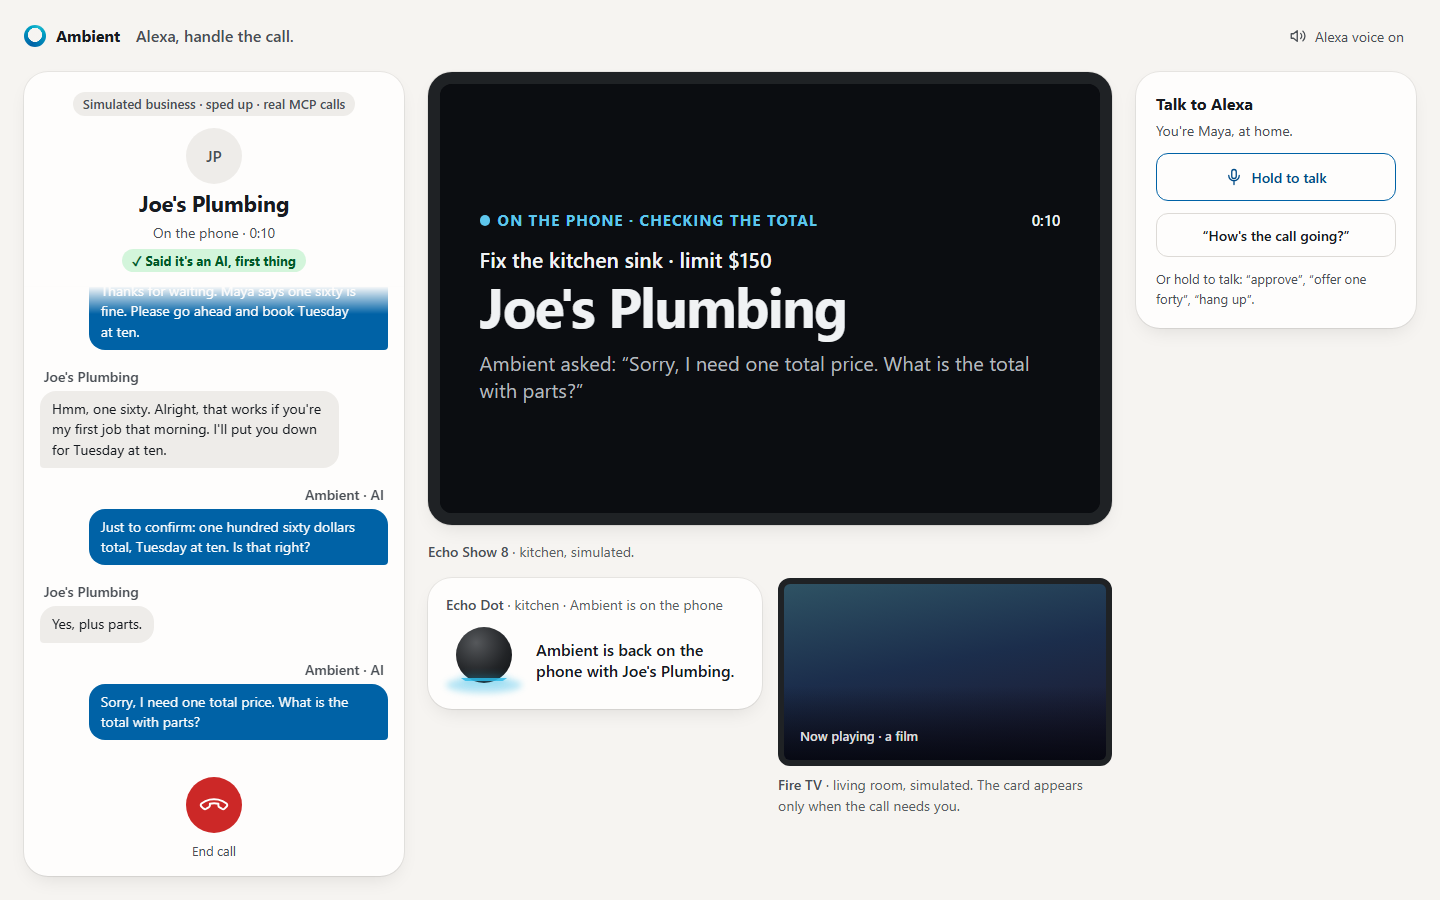
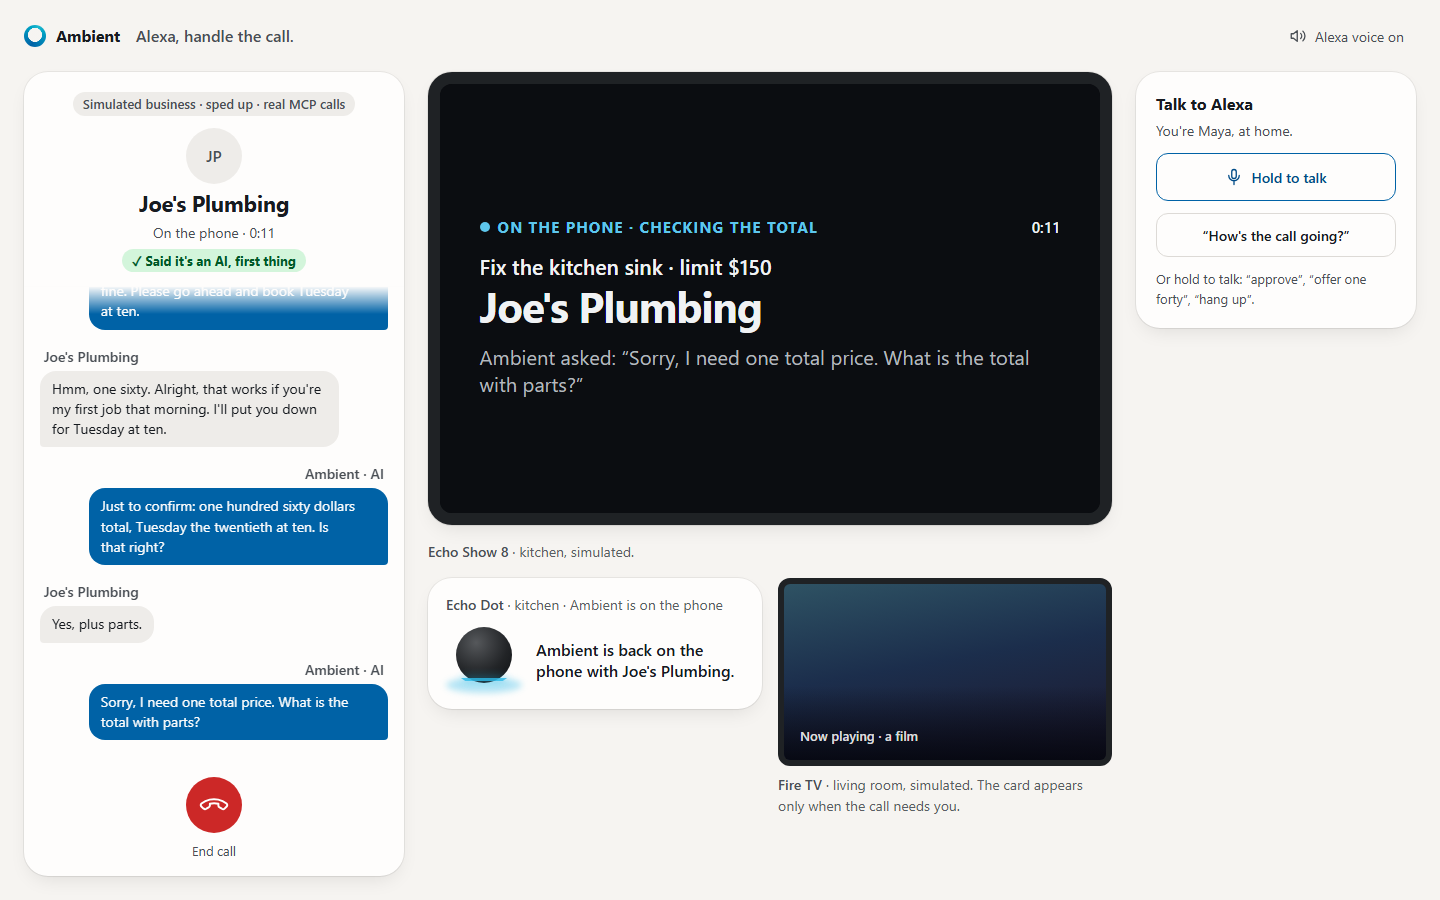
Give the demo a calendar date and say the date caveat aloud
Judges round 6 found the spoken report and the card disagreeing: Alexa
said "confirmed Tuesday at ten" while the card warned that no date was
given, so every demo ended on the caveat.

- Simulated Joe now offers "Tuesday the twentieth at ten", so the demo
  ends on a clean confirmation, and the card says "Confirmed by Joe's
  Plumbing".
- An ordinal day ("the twentieth", "the 20th") counts as a calendar
  date on the card, in the simulator and in the voice.
- When only a weekday was given, Alexa adds "They gave a day but no
  date, so check which one." Tests cover both paths.
- A long time uses a smaller headline so the card keeps its footer.

Changed region(s): [[0.3125, 0.2178, 0.7188, 0.4667], [0.0312, 0.3111, 0.2812, 0.6222], [0.7188, 0.2178, 0.75, 0.2489]]

diff --git a/src/calls/demo.ts b/src/calls/demo.ts
@@ -15,7 +15,7 @@ export const JOES_PLUMBING: BusinessPersona = {
     { when: /\bone (hundred )?fifty\b/i, reply: "One fifty is too low for me. I could do one sixty." },
     { when: /\bany room on the price\b/i, reply: "Best I can do is one eighty, honestly. Parts went up this year." },
     { when: /\b(go ahead|book it|that works)\b/i, reply: "Great, you're booked for Tuesday at ten. That's one eighty." },
-    { when: /\b(sink|leak|visit|plumb)/i, reply: "Sure, we can come Tuesday at ten." }
+    { when: /\b(sink|leak|visit|plumb)/i, reply: "Sure, we can come Tuesday the twentieth at ten." }
   ]
 };
 
@@ -23,6 +23,8 @@ export const JOES_PLUMBING_HANGS_UP: BusinessPersona = {
   ...JOES_PLUMBING,
   rules: [{ when: /\b(sink|leak|visit|plumb)/i, reply: "It's one eighty, take it or leave it. I've got another call.", hangUp: true }]
 };
+
+const WHEN = "Tuesday the twentieth at ten";
 
 export const DEMO_SCRIPT: ScriptedTurn[] = [
   {
@@ -44,13 +46,13 @@ export const DEMO_SCRIPT: ScriptedTurn[] = [
       const amount = amountsIn(readBack.split(" total")[0] ?? "").at(-1);
       return [{
         kind: "end_call",
-        outcome: { kind: "confirmed", summary: `Joe's Plumbing confirmed Tuesday at ten${amount !== undefined ? ` for ${dollarsInWords(amount)}` : ""}.`, ...(amount !== undefined ? { amountUsd: amount } : {}), when: "Tuesday at ten" }
+        outcome: { kind: "confirmed", summary: `Joe's Plumbing confirmed ${WHEN}${amount !== undefined ? ` for ${dollarsInWords(amount)}` : ""}.`, ...(amount !== undefined ? { amountUsd: amount } : {}), when: WHEN }
       }];
     }
   },
   {
-    when: /\bwe can come tuesday at ten\.$/i,
-    reply: () => [{ kind: "say", text: "Tuesday at ten works. What would it cost?", last: true }]
+    when: /\bwe can come tuesday the twentieth at ten\.$/i,
+    reply: () => [{ kind: "say", text: "Tuesday the twentieth at ten works. What would it cost?", last: true }]
   },
   {
     when: /\b(booked|works)\b/i,
@@ -61,9 +63,9 @@ export const DEMO_SCRIPT: ScriptedTurn[] = [
         kind: "end_call",
         outcome: {
           kind: "confirmed",
-          summary: `Joe's Plumbing confirmed Tuesday at ten${amount !== undefined ? ` for ${dollarsInWords(amount)}` : ""}.`,
+          summary: `Joe's Plumbing confirmed ${WHEN}${amount !== undefined ? ` for ${dollarsInWords(amount)}` : ""}.`,
           ...(amount !== undefined ? { amountUsd: amount } : {}),
-          when: "Tuesday at ten"
+          when: WHEN
         }
       }];
     }
@@ -78,9 +80,9 @@ export const DEMO_SCRIPT: ScriptedTurn[] = [
     when: /\bbest i can do is one eighty\b/i,
     reply: (_, state) => [{
       kind: "ask_owner",
-      question: `Joe's Plumbing can come Tuesday at ten for one hundred eighty dollars, over your limit of ${dollarsInWords(state.brief.maxUsd ?? 0)}. Should I book it?`,
+      question: `Joe's Plumbing can come ${WHEN} for one hundred eighty dollars, over your limit of ${dollarsInWords(state.brief.maxUsd ?? 0)}. Should I book it?`,
       amountUsd: 180,
-      when: "Tuesday at ten"
+      when: WHEN
     }]
   },
   {
@@ -94,9 +96,9 @@ export const DEMO_SCRIPT: ScriptedTurn[] = [
     when: /\bi could do one sixty\b/i,
     reply: (_, state) => [{
       kind: "ask_owner",
-      question: `Joe's Plumbing came down to one hundred sixty dollars for Tuesday at ten, still over your limit of ${dollarsInWords(state.brief.maxUsd ?? 0)}. Should I book it?`,
+      question: `Joe's Plumbing came down to one hundred sixty dollars for ${WHEN}, still over your limit of ${dollarsInWords(state.brief.maxUsd ?? 0)}. Should I book it?`,
       amountUsd: 160,
-      when: "Tuesday at ten"
+      when: WHEN
     }]
   },
   {

diff --git a/src/task-view.ts b/src/task-view.ts
@@ -46,6 +46,7 @@ body.booked .check path{animation:draw 600ms 180ms cubic-bezier(0.2,0,0,1) both}
 @keyframes land{0%{transform:scale(.4);opacity:0}100%{transform:scale(1);opacity:1}}
 @keyframes draw{0%{stroke-dashoffset:24}100%{stroke-dashoffset:0}}
 .stake{font-size:2.6em;font-weight:680;letter-spacing:-.025em;line-height:1.04;font-variant-numeric:tabular-nums;text-wrap:balance}
+.stake.long{font-size:2em}
 .over{font-size:1.05em;font-weight:620;color:var(--needs);font-variant-numeric:tabular-nums;margin-top:-.4em}
 .over:empty{display:none}
 .flag{font-size:.72em;font-weight:600;color:var(--needs);margin-top:-.4em}
@@ -126,14 +127,14 @@ function speakers(steps,biz){return steps.map(s=>speaker(s,biz)).filter(Boolean)
 function act(name,args){return rpc("tools/call",{name,arguments:args}).catch(()=>undefined);}
 function offers(ap,said){const limit=ap.limitUsd,amount=ap.amountUsd;if(limit===undefined||amount===undefined||amount<=limit)return [];
  return said.some(l=>l.who!=="Ambient"&&l.text.trim().toLowerCase()==="offer "+limit)?[]:[limit];}
-function dated(when){return /\\b(?:jan|feb|mar|apr|may|jun|jul|aug|sep|oct|nov|dec)[a-z]*\\b|\\d{1,2}\\/\\d{1,2}/i.test(when||"");}
+function dated(when){return /\\b(?:jan|feb|mar|apr|may|jun|jul|aug|sep|oct|nov|dec)[a-z]*\\b|\\d{1,2}\\/\\d{1,2}|\\bthe (?:\\d{1,2}(?:st|nd|rd|th)|(?:twenty|thirty)?-? ?(?:first|second|third|fourth|fifth|sixth|seventh|eighth|ninth)|tenth|eleventh|twelfth|thirteenth|fourteenth|fifteenth|sixteenth|seventeenth|eighteenth|nineteenth|twentieth|thirtieth)\\b/i.test(when||"");}
 function buttons(list){const box=$("actions");box.innerHTML="";
  for(const b of list){const el=document.createElement("button");el.type="button";el.textContent=b.label;if(b.note){const n=document.createElement("small");n.textContent=b.note;el.appendChild(n);}if(b.kind)el.className=b.kind;el.onclick=()=>{el.disabled=true;b.run();};box.appendChild(el);}}
 function foot(lines){const box=$("foot");
  box.innerHTML=lines.map(l=>'<div class="line"><b>'+esc(l.who)+'</b><span>'+l.text+'</span></div>').join("");}
 function ownerSaid(line,biz){if(!line)return "";const decided=/^(Approved|Declined): /.exec(line.text);if(decided)return "You "+decided[1].toLowerCase()+" it.";
  const offer=/^offer\\s+\\$?(\\d+)/i.exec(line.text);return offer?"You offered "+usd(offer[1])+". Waiting for "+biz+".":"You told them: \\u201c"+cap(line.text)+"\\u201d";}
-function setStake(amount,when){const el=$("stake");
+function setStake(amount,when){const el=$("stake");el.classList.toggle("long",String(when||"").length>16);
  el.innerHTML=amount===undefined?'<span class="when">'+esc(when)+'</span>':esc(usd(amount))+'<span class="sep"> \\u00b7 </span><span class="when">'+esc(when)+'</span>';}
 let shown="";
 function render(d){

diff --git a/src/voice.ts b/src/voice.ts
@@ -24,6 +24,8 @@ export function titleFor(instruction: string): string {
   return title || "new task";
 }
 
+const CALENDAR_DATE = /\b(?:jan|feb|mar|apr|may|jun|jul|aug|sep|oct|nov|dec)[a-z]*\b|\d{1,2}\/\d{1,2}|\bthe (?:\d{1,2}(?:st|nd|rd|th)|(?:twenty|thirty)?-? ?(?:first|second|third|fourth|fifth|sixth|seventh|eighth|ninth)|tenth|eleventh|twelfth|thirteenth|fourteenth|fifteenth|sixteenth|seventeenth|eighteenth|nineteenth|twentieth|thirtieth)\b/i;
+
 function clampSentences(value: string, max = 2): string {
   const sentences = value.match(/[^.!?]+[.!?]+["')\]]*|[^.!?]+$/g) ?? [];
   const picked = sentences.slice(0, max).map(sentence => sentence.trim()).filter(Boolean);
@@ -99,7 +101,10 @@ export function speak(view: RunView, ctx: SpeakContext): string {
   switch (view.status) {
     case "completed": {
       const outcome = view.outcome;
-      if (outcome?.kind === "confirmed") return clampSentences(outcome.summary);
+      if (outcome?.kind === "confirmed") {
+        const undated = outcome.when && !CALENDAR_DATE.test(outcome.when) ? " They gave a day but no date, so check which one." : "";
+        return `${clampSentences(outcome.summary, 1)}${undated}`;
+      }
       if (outcome?.kind === "unconfirmed") return "The call ended before they confirmed, so I won't assume it's booked.";
       const declined = outcome && /^\S+ declined (.+)$/.exec(outcome.reason);
       if (declined) return `You said no to ${stripEnd(declined[1]!)}, so I ended the call. Nothing is booked.`;

diff --git a/web/sim/index.html b/web/sim/index.html
@@ -352,7 +352,7 @@ function render() {
   if (o || t?.status === "cancelled") {
     const ok = o?.kind === "confirmed";
     out.className = "outcome show " + (ok ? "ok" : "not");
-    const undated = ok && !/\b(?:jan|feb|mar|apr|may|jun|jul|aug|sep|oct|nov|dec)[a-z]*\b|\d{1,2}\/\d{1,2}/i.test(o.when ?? "");
+    const undated = ok && !/\b(?:jan|feb|mar|apr|may|jun|jul|aug|sep|oct|nov|dec)[a-z]*\b|\d{1,2}\/\d{1,2}|\bthe (?:\d{1,2}(?:st|nd|rd|th)|(?:twenty|thirty)?-? ?(?:first|second|third|fourth|fifth|sixth|seventh|eighth|ninth)|tenth|eleventh|twelfth|thirteenth|fourteenth|fifteenth|sixteenth|seventeenth|eighteenth|nineteenth|twentieth|thirtieth)\b/i.test(o.when ?? "");
     const caveat = `${/\b(?:mon|tues|wednes|thurs|fri|satur|sun)day\b/i.test(o.when ?? "") ? "Only the weekday was given" : "No date was given"} · ask ${biz} for the date`;
     out.classList.toggle("caveat", undated);
     $("outcomeLabel").textContent = ok ? (undated ? "Booked · price confirmed" : `Confirmed by ${biz}`) : t.status === "cancelled" ? "Not booked" : o.kind === "unconfirmed" ? "Not booked" : o.kind === "declined" ? "They declined" : "No deal";

diff --git a/test/voice.test.ts b/test/voice.test.ts
@@ -206,3 +206,16 @@ describe("speak", () => {
     expect(result._meta).toMatchObject({ ui: { resourceUri: "ui://ambient/task" } });
   });
 });
+
+describe("the confirmed report", () => {
+  const ctx = { label: "Ambient", state: "online" as const };
+  const done = (when: string) => view({ status: "completed", outcome: { kind: "confirmed", summary: `Joe's Plumbing confirmed ${when} for one hundred sixty dollars.`, amountUsd: 160, when } });
+
+  it("says plainly when the business gave a day but no date", () => {
+    expect(speak(done("Tuesday at ten"), ctx)).toBe("Joe's Plumbing confirmed Tuesday at ten for one hundred sixty dollars. They gave a day but no date, so check which one.");
+  });
+
+  it.each(["Tuesday the twentieth at ten", "October 20 at ten", "10/20 at ten", "Tuesday the 20th at ten"])("adds nothing when the business gave a date: %s", when => {
+    expect(speak(done(when), ctx)).toBe(`Joe's Plumbing confirmed ${when} for one hundred sixty dollars.`);
+  });
+});

diff --git a/test/call.test.ts b/test/call.test.ts
@@ -48,7 +48,7 @@ describe("runCall with the simulated line", () => {
     await until(call, "waiting_for_owner");
     call.ownerSaid("offer 160");
     const final = await call.done;
-    expect(final.phase).toMatchObject({ kind: "ended", outcome: { kind: "confirmed", amountUsd: 160, when: "Tuesday at ten" } });
+    expect(final.phase).toMatchObject({ kind: "ended", outcome: { kind: "confirmed", amountUsd: 160, when: "Tuesday the twentieth at ten" } });
     expect(spoken.join("")).toContain("one hundred sixty dollars");
     expect(final.turns.some(turn => turn.speaker === "business" && /one sixty\. Alright, that works/i.test(turn.text))).toBe(true);
     expect(final.turns.some(turn => turn.speaker === "owner" && turn.text === "offer 160")).toBe(true);

diff --git a/test/assemblyai-line.test.ts b/test/assemblyai-line.test.ts
@@ -316,7 +316,7 @@ describe("CallRooms line", () => {
     room.pageEvent({ type: "ended" });
     const final = await call.done;
     expect(said[0]).toMatch(/^Hi Joe\./);
-    expect(said[2]).toBe("Just to confirm: one hundred eighty dollars total, Tuesday at ten. Is that right?");
+    expect(said[2]).toBe("Just to confirm: one hundred eighty dollars total, Tuesday the twentieth at ten. Is that right?");
     expect(final.phase).toMatchObject({ kind: "ended", outcome: { kind: "confirmed", amountUsd: 180 } });
   });
 });
